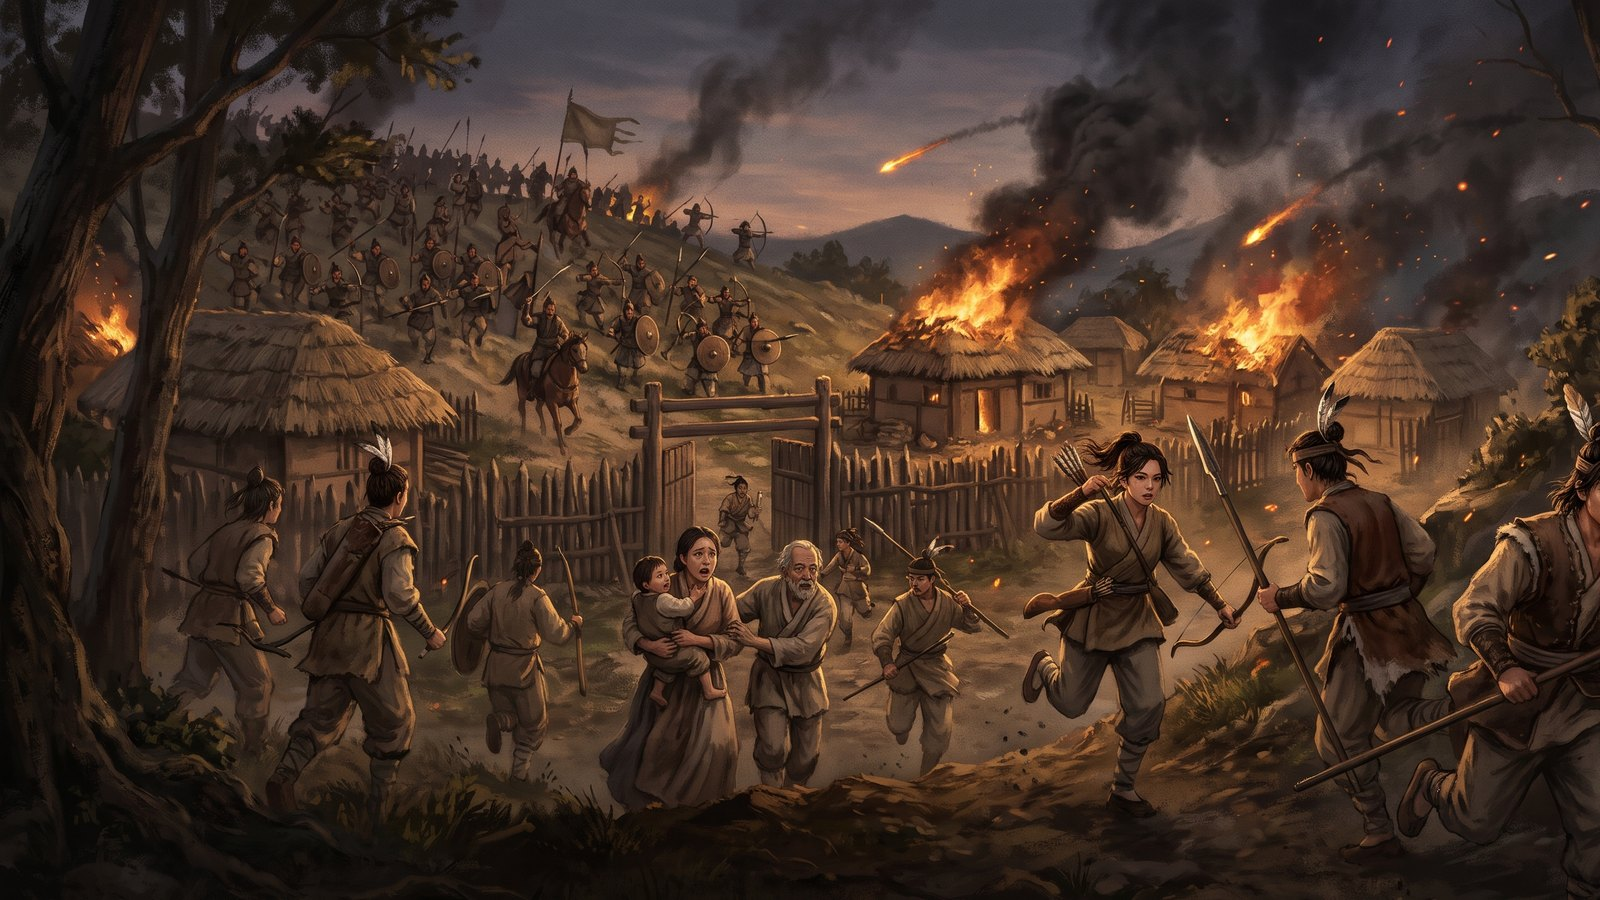
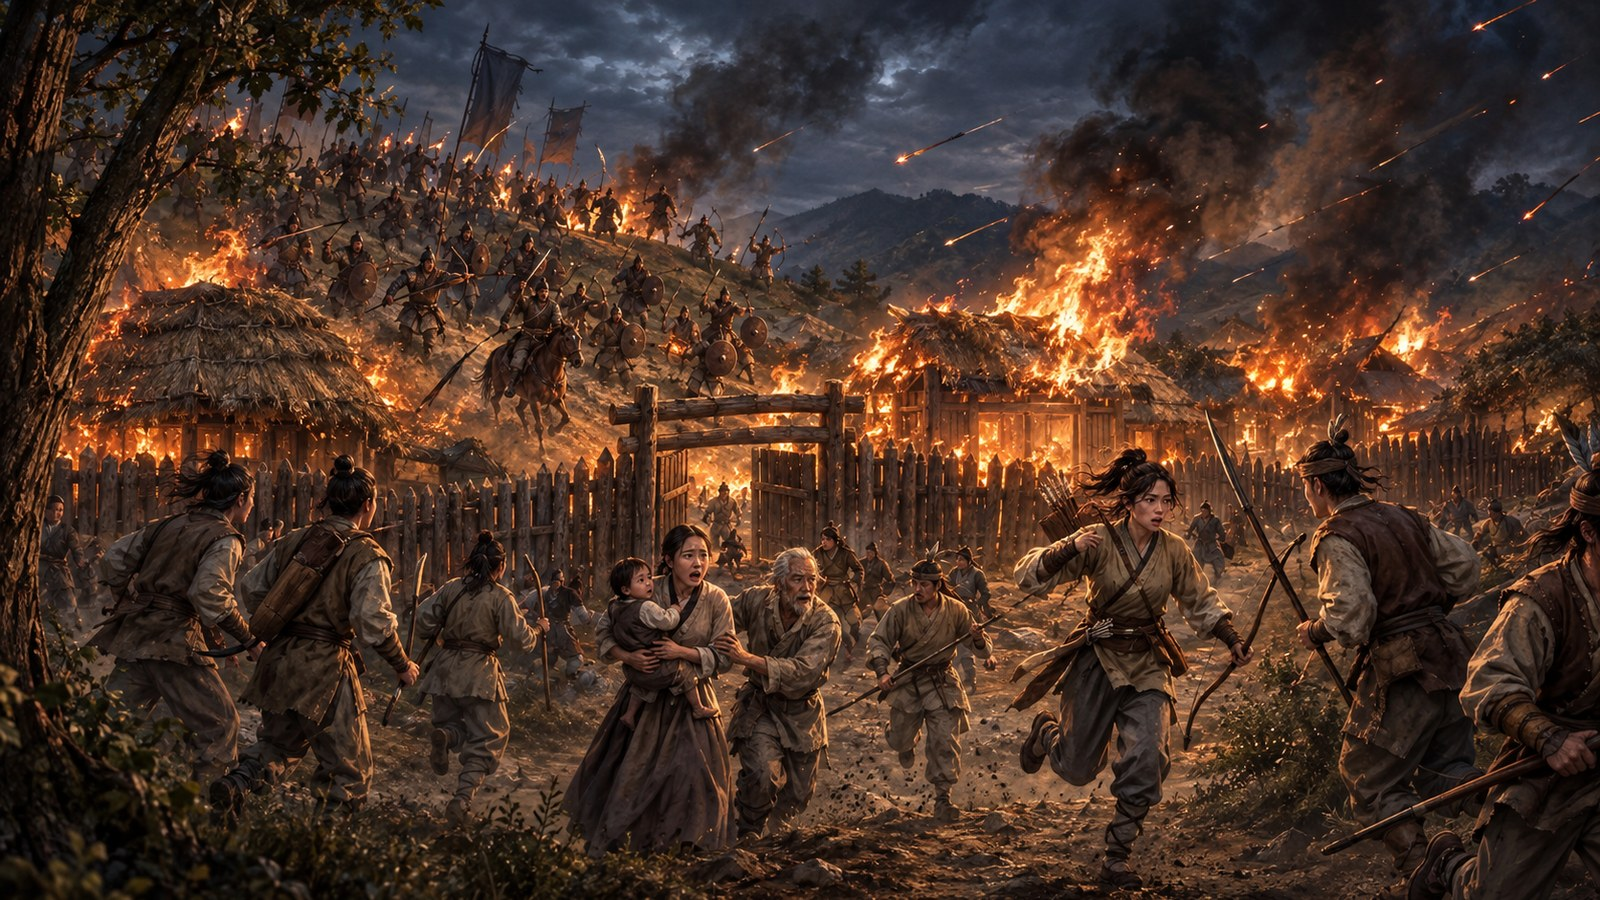
사건 그림을 챗지피티로 다시 — 첫 장 「적의 기습」(invade-raid) · 옛 제미나이 그림을 IMAGE 1, 원군 기병 그림결을 IMAGE 2 로 · 남은 서른여덟은 그림 줄에 (형 10-28: "제미나이로 퀄리티 있는 거 뽑아내기 너무 어렵다")
Claude-Session: https://claude.ai/code/session_01EHNWQSnpqx2ZUW8bnuUbTB

diff --git a/docs/realm/ART-QUEUE.md b/docs/realm/ART-QUEUE.md
@@ -6,11 +6,14 @@
 
 | 계정 (화면에 뜨는 이름) | 풀리는 때 | 본 때 |
 |---|---|---|
-| YunCheol (edu · 'YunCheol Shin') | 10-28 AM 12:06 | 10-27 01:20 한도 문구 (그 사이 다섯 장) |
+| YunCheol (edu · 'YunCheol Shin') | 지금 쓰는 중 | 10-28 02:50 부터 사건 그림 |
 | retyper92 (계정 고르기에 'YunCheol Shin · retyper92@gmail' 로 뜬다) | 10-28 PM 2:58 (문구 그대로) | 10-27 15:10 한도 문구 — 15:00 부터 다섯 장 (g-05·06·07·18·20) |
 | roqkfeke12 ('윤철 신') | 10-28 PM 6:15 (문구 그대로) | 10-27 18:22 한도 문구 — 18:12 부터 열 장 (g-22 ~ g-32 · 다음은 g-41 고자 바우부터 아홉 장) |
-| retyper (hephaestosian · 'retyper') | 지금 쓸 수 있다 | 10-27 22:16 부터 아홉 장 받음 — 한도 문구 아직 없음 (g-41·g-60·g-61·g-62·g-63·w-03·w-04·w-46·w-60 · 아홉 다 구움 — 명치판 줄 끝) |
+| retyper (hephaestosian · 'retyper') | 10-28 PM 10:17 (문구 그대로) | 10-28 02:47 한도 문구 — 10-27 22:16 부터 열 장 (명치판 아홉 + 사건 invade-raid) |
 
+
+**★ 2026-10-28 형: "제미나이로 만든 이벤트 화면들도 다 챗지피티로 · 제미나이로 퀄리티 있는 거 뽑아내기 너무 어렵다"** — 사건 그림 서른아홉 (챗지피티 사람 그림만 규칙을 이걸로 넓힌다). 주문서 = public/_tmp/events39.json (head + 장면 + 16:9 자리면 wide + tail · _queue 순서). 한 장마다 새 대화 · IMAGE 1 = 옛 그림(public/_tmp/ev/event-<이름>.jpg) · IMAGE 2 = 그림결 event-relief-cavalry.jpg — file_upload 로 둘을 '사진 첨부' 입력에 (챗지피티 페이지에서 127.0.0.1 fetch 는 이제 막힌다) · 받기는 a.download → ~/Downloads/gptev-<이름>.png → scratchpad bakeev.py (16:9 자리는 1600×900, 나머지 1152×768 · cut/ 에도 넣는다).
+   순서: ~~invade-raid~~(10-28 hephaestosian) · invade-siege · invade-field · take-town · captured-ours · capture · plot-assassin · plot-bribe · plot-burn · plot-rescue · plot-rumor · plot-sow · plot-spy · truce-pact · tribute-bow · court-hall · festival · flood · plague · dream · newborn · alliance-oath · bow-forge · defection · divination · egg-birth · eight-harbours · expedition-return · goguryeo-hunt · golden-egg · iron-trade · night-raid · outside-envoy · palisade-build · people-quarrel · salt-makers(옛 판에 지는 해 동그라미) · sniped-commander · spy-rumor · yeonggo
 
 > 형 (2026-10-19): *"챗지피티를 중요한 이미지 생성에 항상 다음 만들거 목록화해두고 크레딧 생길때마다 생성시켜야지 뭐하냐"*
 
